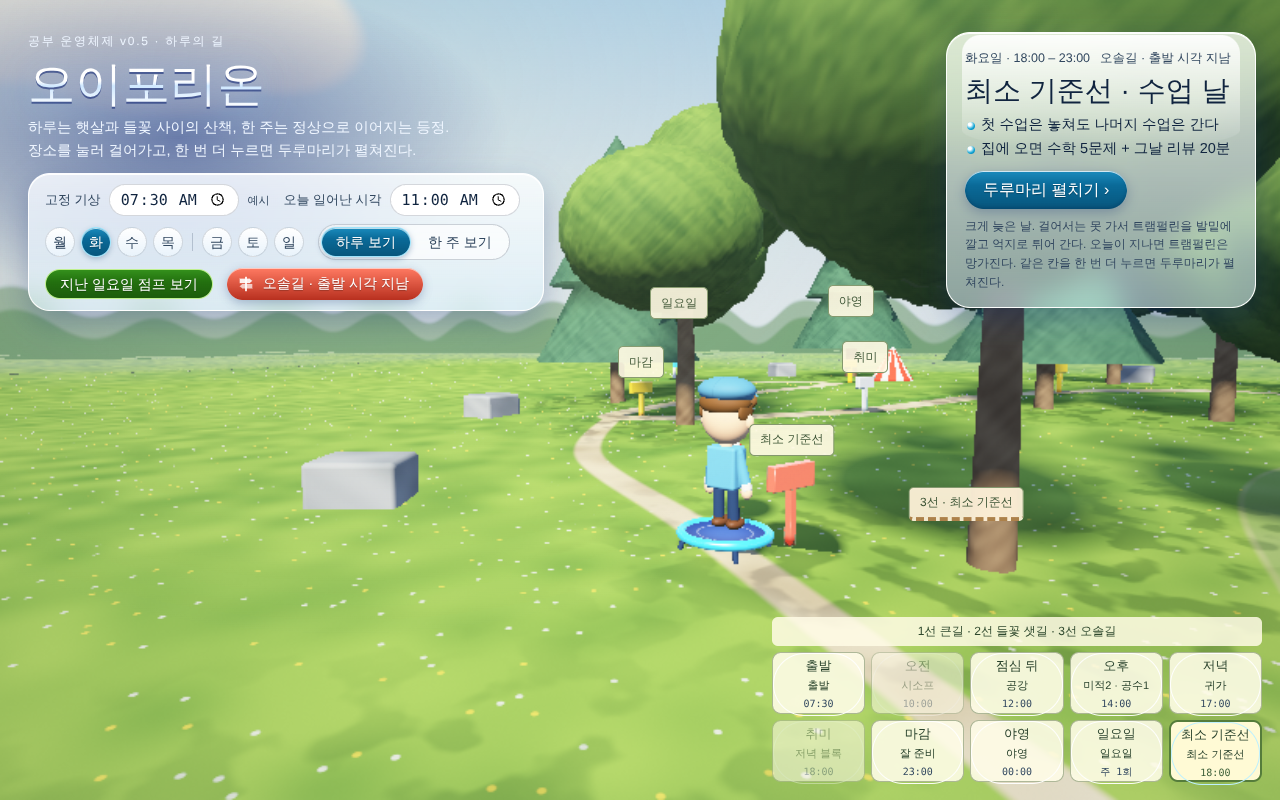
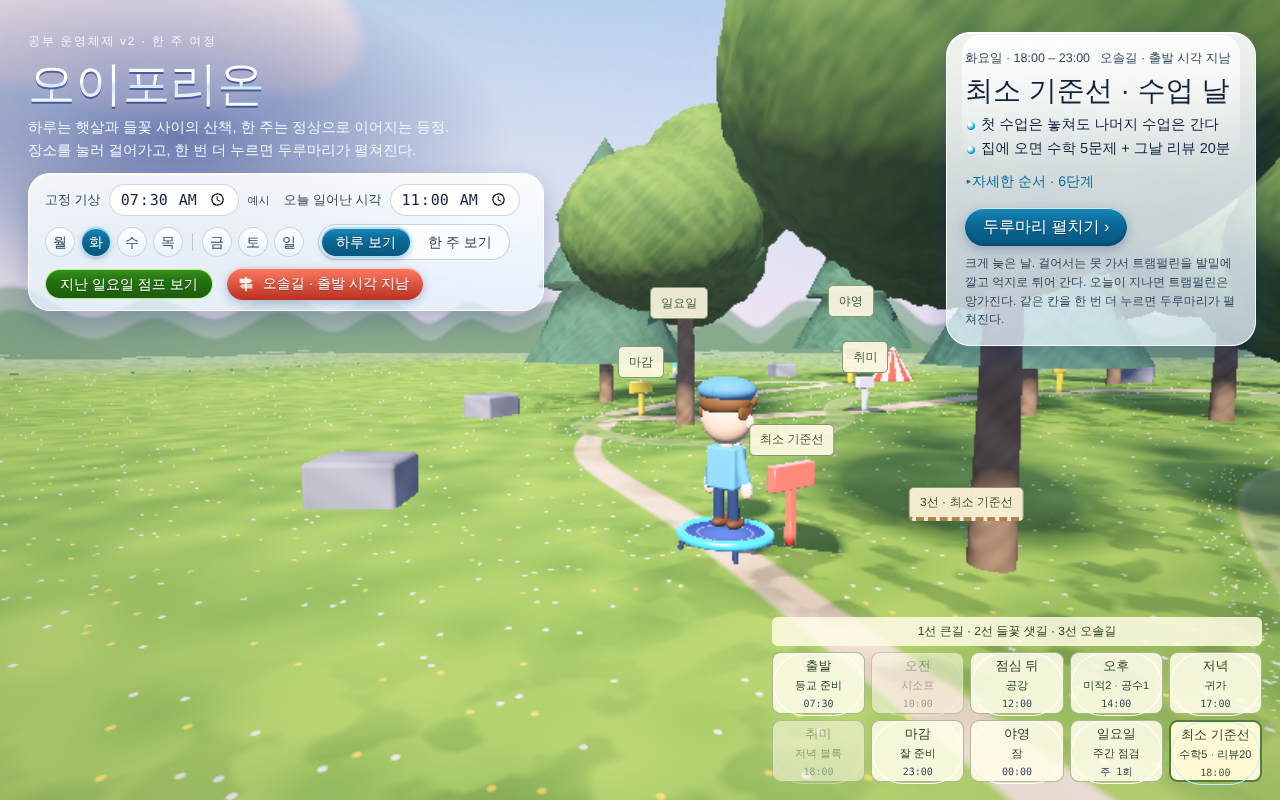
드림코어 강화: 분홍빛 지평선, 문 뒤 무지개 고리, 하늘에 뜬 계단, 파스텔 색 보정
- 모두 하늘 함수 안의 화면 좌표 식(하늘 픽셀에서만, 반복문 없음)과
  마지막 색 보정 한 줄. 레이마칭·애니메이션 추가 없음, 하루 장면만
- 풍경 전체 그리기 중앙값 3550ms → 3517ms(차이 없음)
- 단위 23/23, e2e 27/27

Claude-Session: https://claude.ai/code/session_012m9PvuVkWtJp3oST29ckcm

diff --git a/oiphorion/src/map.js b/oiphorion/src/map.js
@@ -267,10 +267,11 @@ vec3 sky(vec3 rd){
   float e=rd.y,az=atan(rd.x,-rd.z);
   if(uDay>.5){
     vec3 c=mix(vec3(.72,.87,.98),vec3(.22,.50,.98),smoothstep(-.02,.62,e));  // 맑은 파스텔 하늘, 지평선만 연하게
+    c=mix(c,vec3(1.,.80,.86),.55*(1.-smoothstep(0.,.17,e)));  // 드림코어: 지평선은 복숭아·분홍빛
     vec2 cp=vec2(mod(az+.65,1.3)-.65,(e-.35)*1.8);
     float puff=min(length(cp)-.16,min(length(cp-vec2(.14,.04))-.12,length(cp+vec2(.13,.02))-.13));
     float clouds=1.-smoothstep(-.012,.022,puff);
-    c=mix(c,mix(vec3(.70,.77,.88),vec3(1.,.98,.96),smoothstep(.20,.48,e)),clouds*.94);
+    c=mix(c,mix(vec3(.84,.76,.92),vec3(1.,.98,.96),smoothstep(.20,.48,e)),clouds*.94);  // 구름 그늘은 라벤더
     float moon=1.-smoothstep(.024,.029,length(vec2(az+.48,e-.43)));c=mix(c,vec3(.95,.98,1.),moon*.85);
     c+=vec3(.15,.10,.04)*pow(max(0.,dot(rd,normalize(vec3(-.62,.66,.42)))),18.);
     // Two distant woodland layers close the open horizon, without ray objects.
@@ -283,6 +284,15 @@ vec3 sky(vec3 rd){
     float frame=(1.-smoothstep(.024,.028,abs(door.x)))*(1.-smoothstep(.054,.058,abs(door.y)));
     float cloudlet=1.-smoothstep(.85,1.05,length((door+vec2(0.,.065))/vec2(.11,.03)));
     c+=vec3(1.,.96,.86)*.32*exp(-dot(door/vec2(.06,.10),door/vec2(.06,.10)));  // 문 뒤 은은한 빛
+    // 드림코어 장치 둘. 모두 화면 좌표의 식 몇 줄이라 하늘 픽셀에서만 계산되고 반복문도 없다.
+    // ① 문 뒤 옅은 무지개 고리: 문 아래를 중심으로 한 반원, 바깥 빨강 → 안쪽 보라
+    float rr=(length((door-vec2(0.,-.10))*vec2(1.,1.15))-.17)/.05;
+    vec3 bow=.55+.45*cos(6.2832*(clamp(rr,0.,1.)*.75+vec3(0.,.33,.67)));
+    c=mix(c,bow,.20*smoothstep(0.,.25,rr)*(1.-smoothstep(.75,1.,rr))*smoothstep(-.06,.02,door.y+.10)*smoothstep(.02,.10,e));
+    // ② 하늘에 떠서 문으로 이어지는 계단: 구름 조각 왼쪽에서 아래로 다섯 칸, 멀어질수록 희미하게 녹는다
+    float si=floor((-door.x-.10)/.045), top=-.075-si*.03;
+    float stair=step(0.,si)*step(si,4.)*(1.-smoothstep(.0,.004,door.y-top))*smoothstep(-.016,-.012,door.y-top);
+    c=mix(c,mix(vec3(.80,.80,.92),vec3(1.,.99,.97),smoothstep(-.006,-.002,door.y-top)),stair*(1.-si*.17));
     c=mix(c,vec3(.96,.95,1.),cloudlet*.96);
     float rim=(1.-smoothstep(.029,.033,abs(door.x)))*(1.-smoothstep(.059,.063,abs(door.y)))*(1.-frame);
     c=mix(c,vec3(.14,.18,.30),rim*.8);  // 옅은 남회색 윤곽: 흰 구름 앞에서도 문 모양이 읽힌다
@@ -715,6 +725,7 @@ void main(){
   col=1.-exp(-col*1.85);
   col=pow(col,vec3(1./2.2));
   col=mix(vec3(dot(col,vec3(.299,.587,.114))),col,1.05);
+  if(uDay>.5)col=mix(col,col*vec3(1.02,.97,1.05)+vec3(.035,.02,.05),.55);  // 파스텔 그레이딩: 그늘을 라벤더 쪽으로 살짝 들어 올림
   float vg=1.-.12*dot(uv*.5,uv*.5);col*=vg;
   col+=(h12(gl_FragCoord.xy)-.5)/255.;
   gl_FragColor=vec4(col,1.);

diff --git a/oiphorion/CLAUDE.md b/oiphorion/CLAUDE.md
@@ -18,7 +18,8 @@ claude.ai 대화(2026-10-22)에서 만들었고, 이 파일은 그 대화를 압
 - **하루 보기(`sceneMode='day'`)** 는 소년 뒤 낮은 시점의 숲길 "여정"이다.
   - 장소(`NXZ`)마다 카메라가 바뀐다(`MAP_SCENES.camera`). 도착할 때만 전체 렌더하고, 걷는 동안은 부분 다시 그리기를 쓴다.
   - 나무 16그루(`MAP_SCENES.dayTrees`): 앞 `dayConifers`그루는 층층 침엽수, 나머지는 줄기가 보이는 활엽수다. 소년을 가리는 나무는 `treeClear`가 뺀다.
-  - 큰길 둘레에는 키 큰 풀·들꽃 띠가 있다. 하늘은 파스텔이고, 한낮의 달과 하얀 문이 있다.
+  - 큰길 둘레에는 키 큰 풀·들꽃 띠가 있다. 하늘은 파스텔(지평선은 분홍빛)이고, 한낮의 달과 하얀 문이 있다. 문 뒤엔 옅은 무지개 고리, 아래엔 하늘에 떠서 문으로 이어지는 계단이 있다. 모두 하늘 함수 안의 화면 좌표 식이라 하늘 픽셀에서만 계산되고 반복문이 없다. 마지막에 파스텔 색 보정 한 줄(하루만).
+  - 드림코어를 더할 때 원칙: 최적화가 먼저다. 레이마칭·반복문·무한 애니메이션을 늘리지 말고, 하늘 함수나 마지막 색 보정 안에서 해결한다. 전후로 풍경 전체 그리기 시간을 잰다.
   - 하얀 문 자리는 `doorSpot()`이 그릴 때마다 고른다. 패널·나무에 안 가리는 하늘을 찾고, 먼 나무는 두 그루까지 비켜 준다.
   - 나무 자리는 어느 장소의 카메라에서도 다음 장소 표지까지의 시선을 수관이 막지 않게 정했다. `treeClear`는 소년의 발·가슴·모자 세 점을 보고, 침엽수는 아랫단이 넓은 원뿔 모양으로 잰다.
   - **2선 들꽃 샛길**(`MEADOW`, `MEADOW_OFFSET`)은 장소와 장소 사이마다 큰길 옆으로 비켜난 풀길이다. 2선인 날은 길 찾기에서 샛길을 0.9배, 큰길을 3배로 쳐서 소년이 샛길로만 다닌다. 오전이 꺼진 날의 출발→점심 지름길 `SIDE`도 그대로 있다. 나무·바위·천막을 피하는지는 단위 시험이 확인한다.
